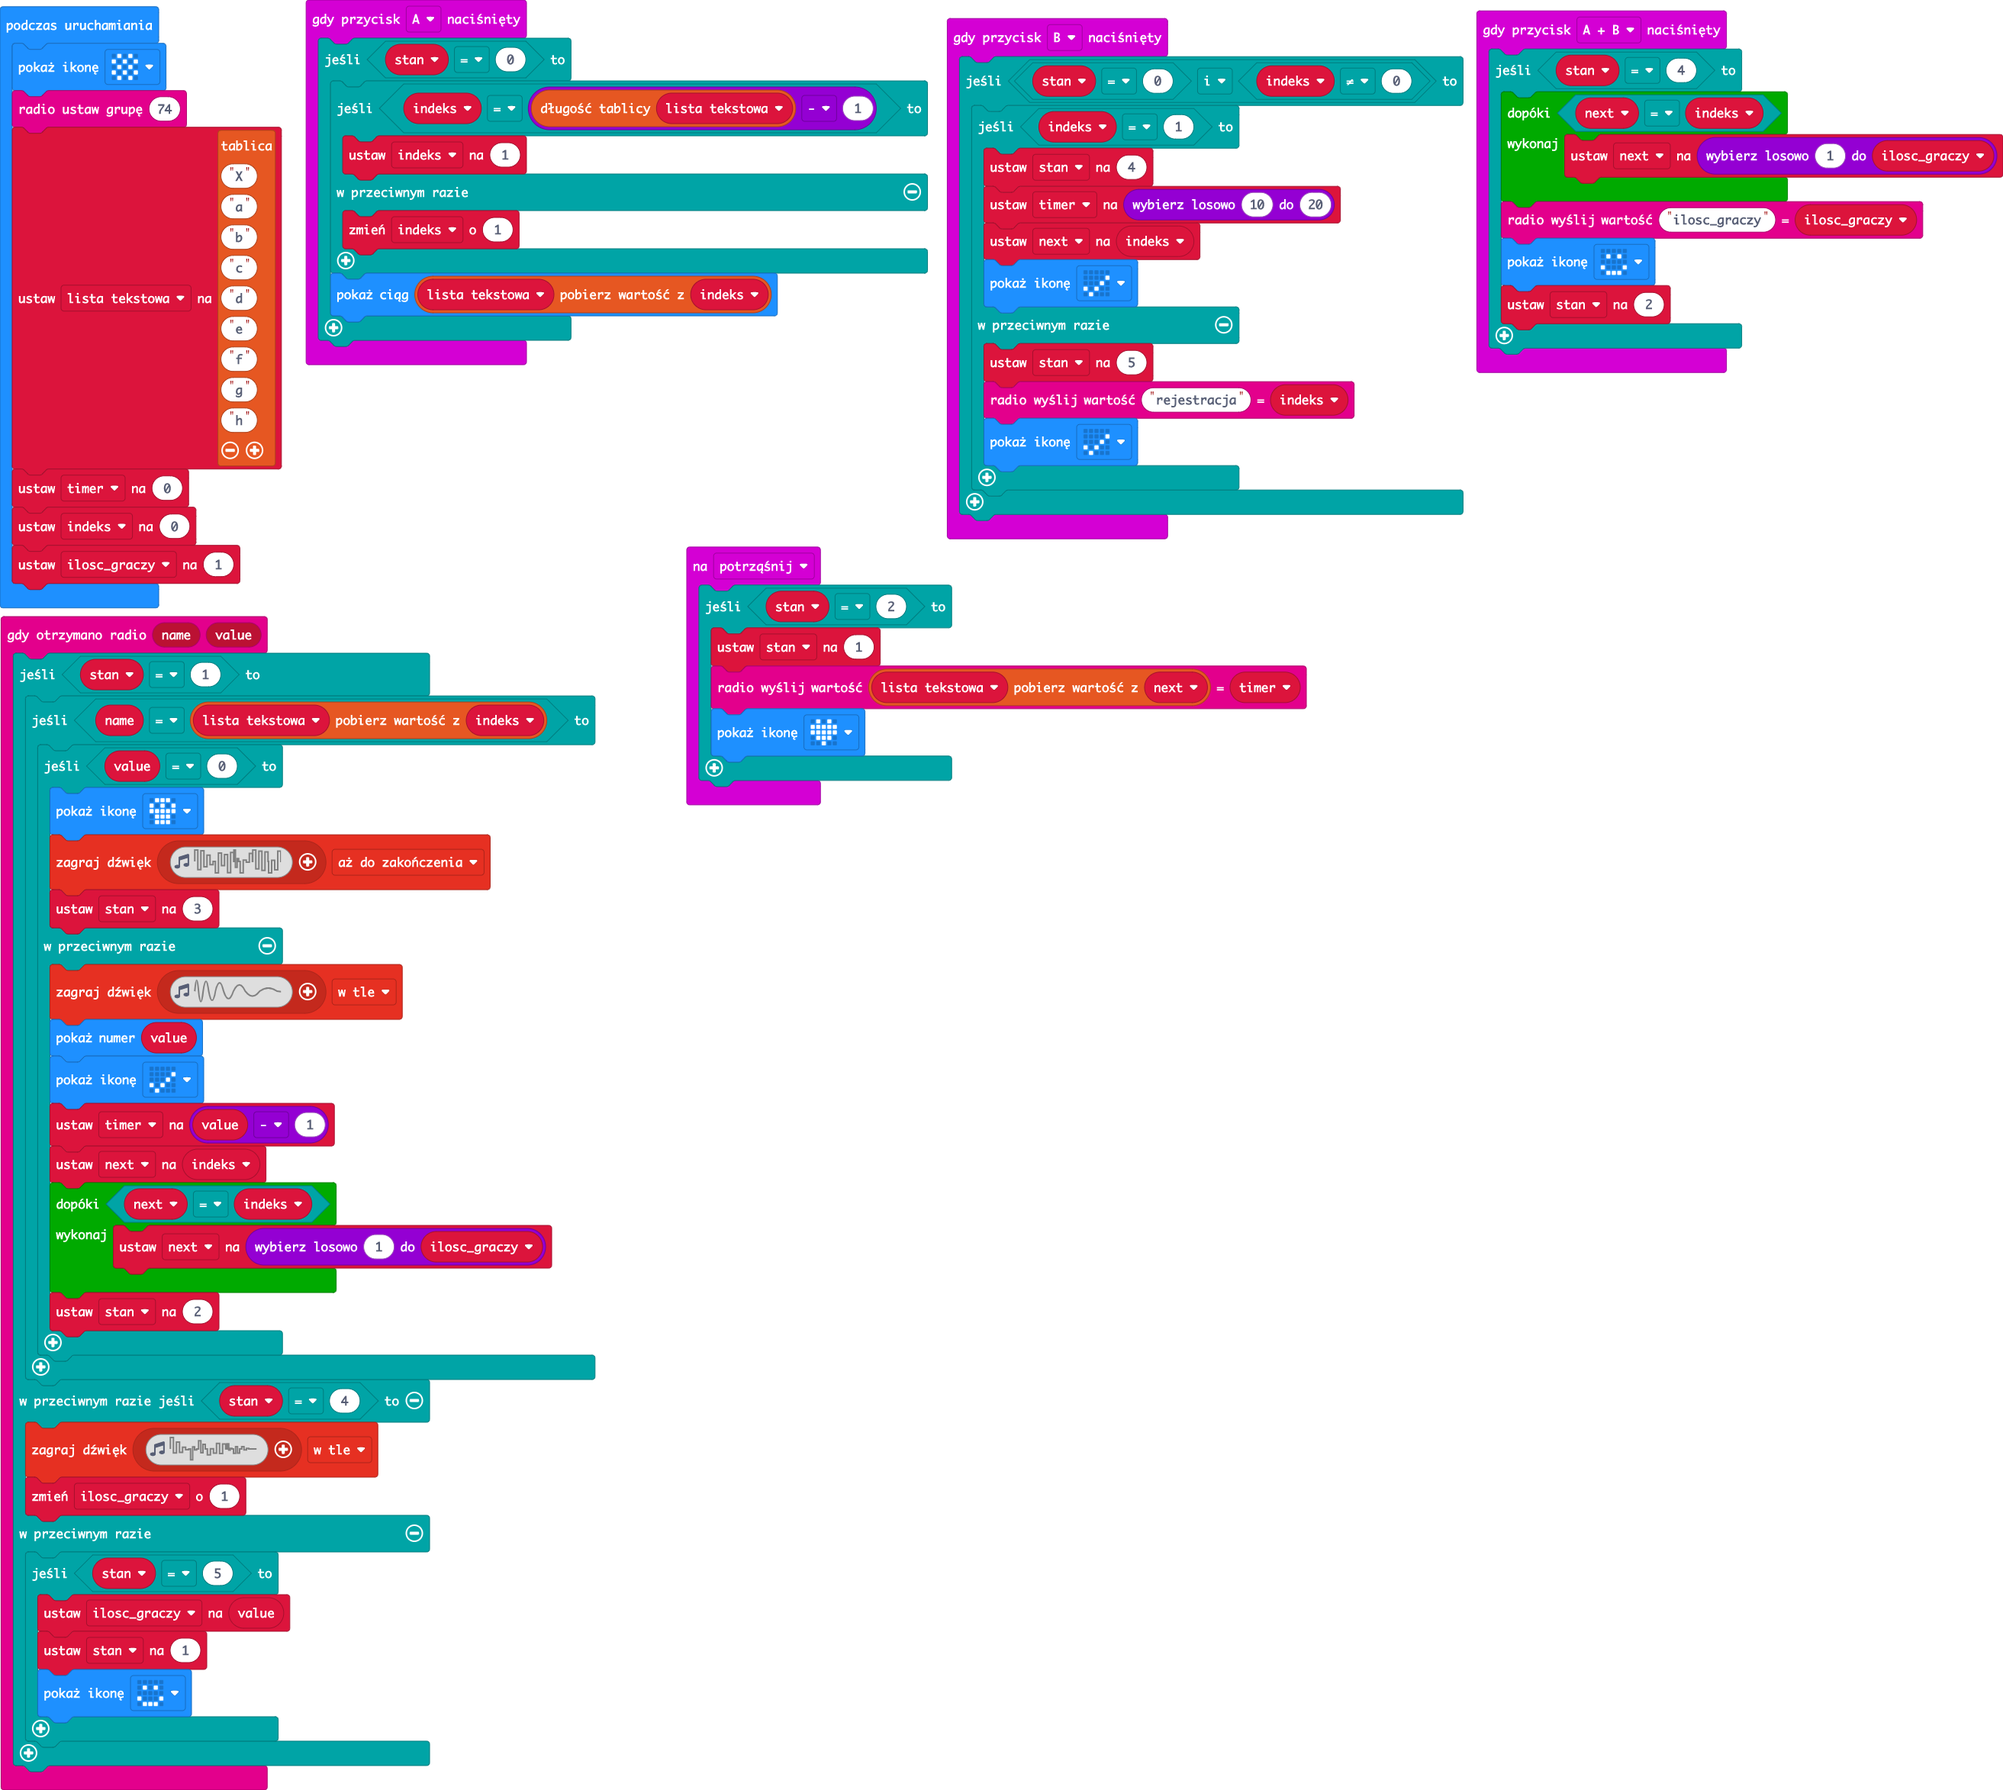
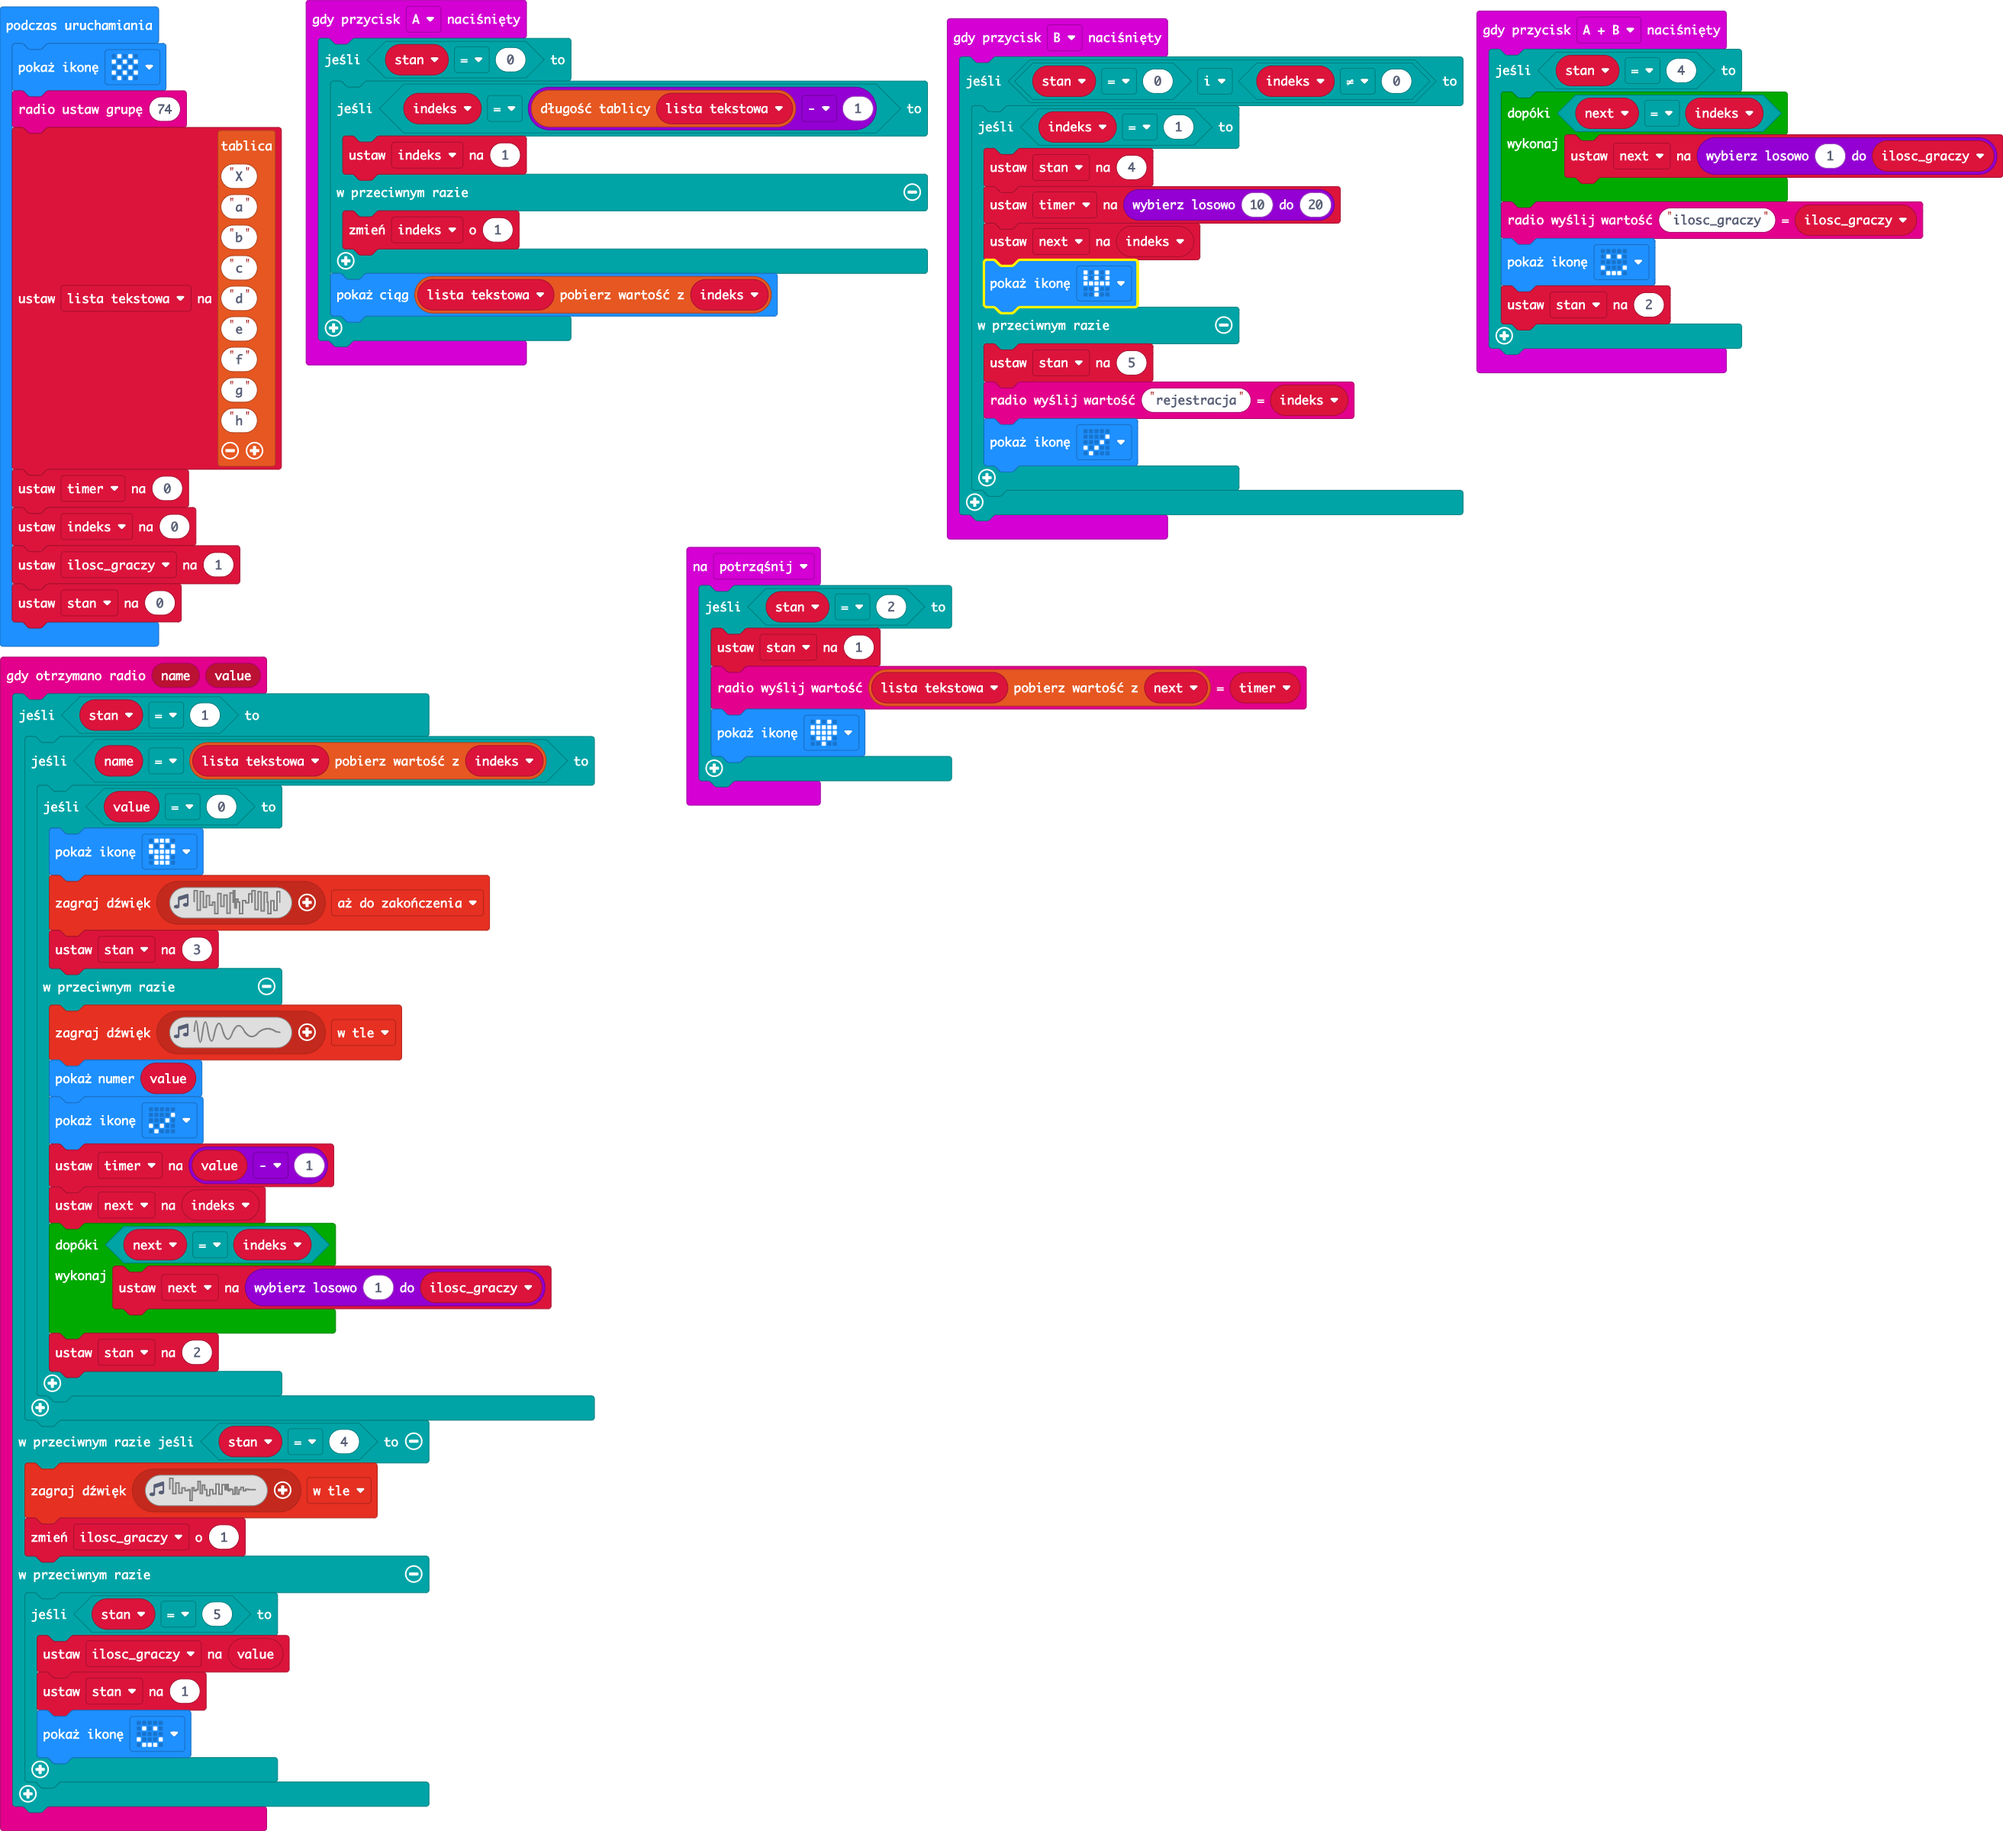
Aktualizacja main.blocks, main.ts

Changed region(s): [[0.0, 0.0, 0.7185, 0.9957], [0.7185, 0.0, 0.9996, 0.2178], [0.3436, 0.2801, 0.656, 0.4668]]

diff --git a/main.ts b/main.ts
@@ -24,7 +24,7 @@ input.onButtonPressed(Button.B, function () {
             stan = 4
             timer = randint(10, 20)
             next = indeks
-            basic.showIcon(IconNames.Yes)
+            basic.showIcon(IconNames.Pitchfork)
         } else {
             stan = 5
             radio.sendValue("rejestracja", indeks)
@@ -91,3 +91,4 @@ lista_tekstowa = [
 timer = 0
 indeks = 0
 ilosc_graczy = 1
+stan = 0
